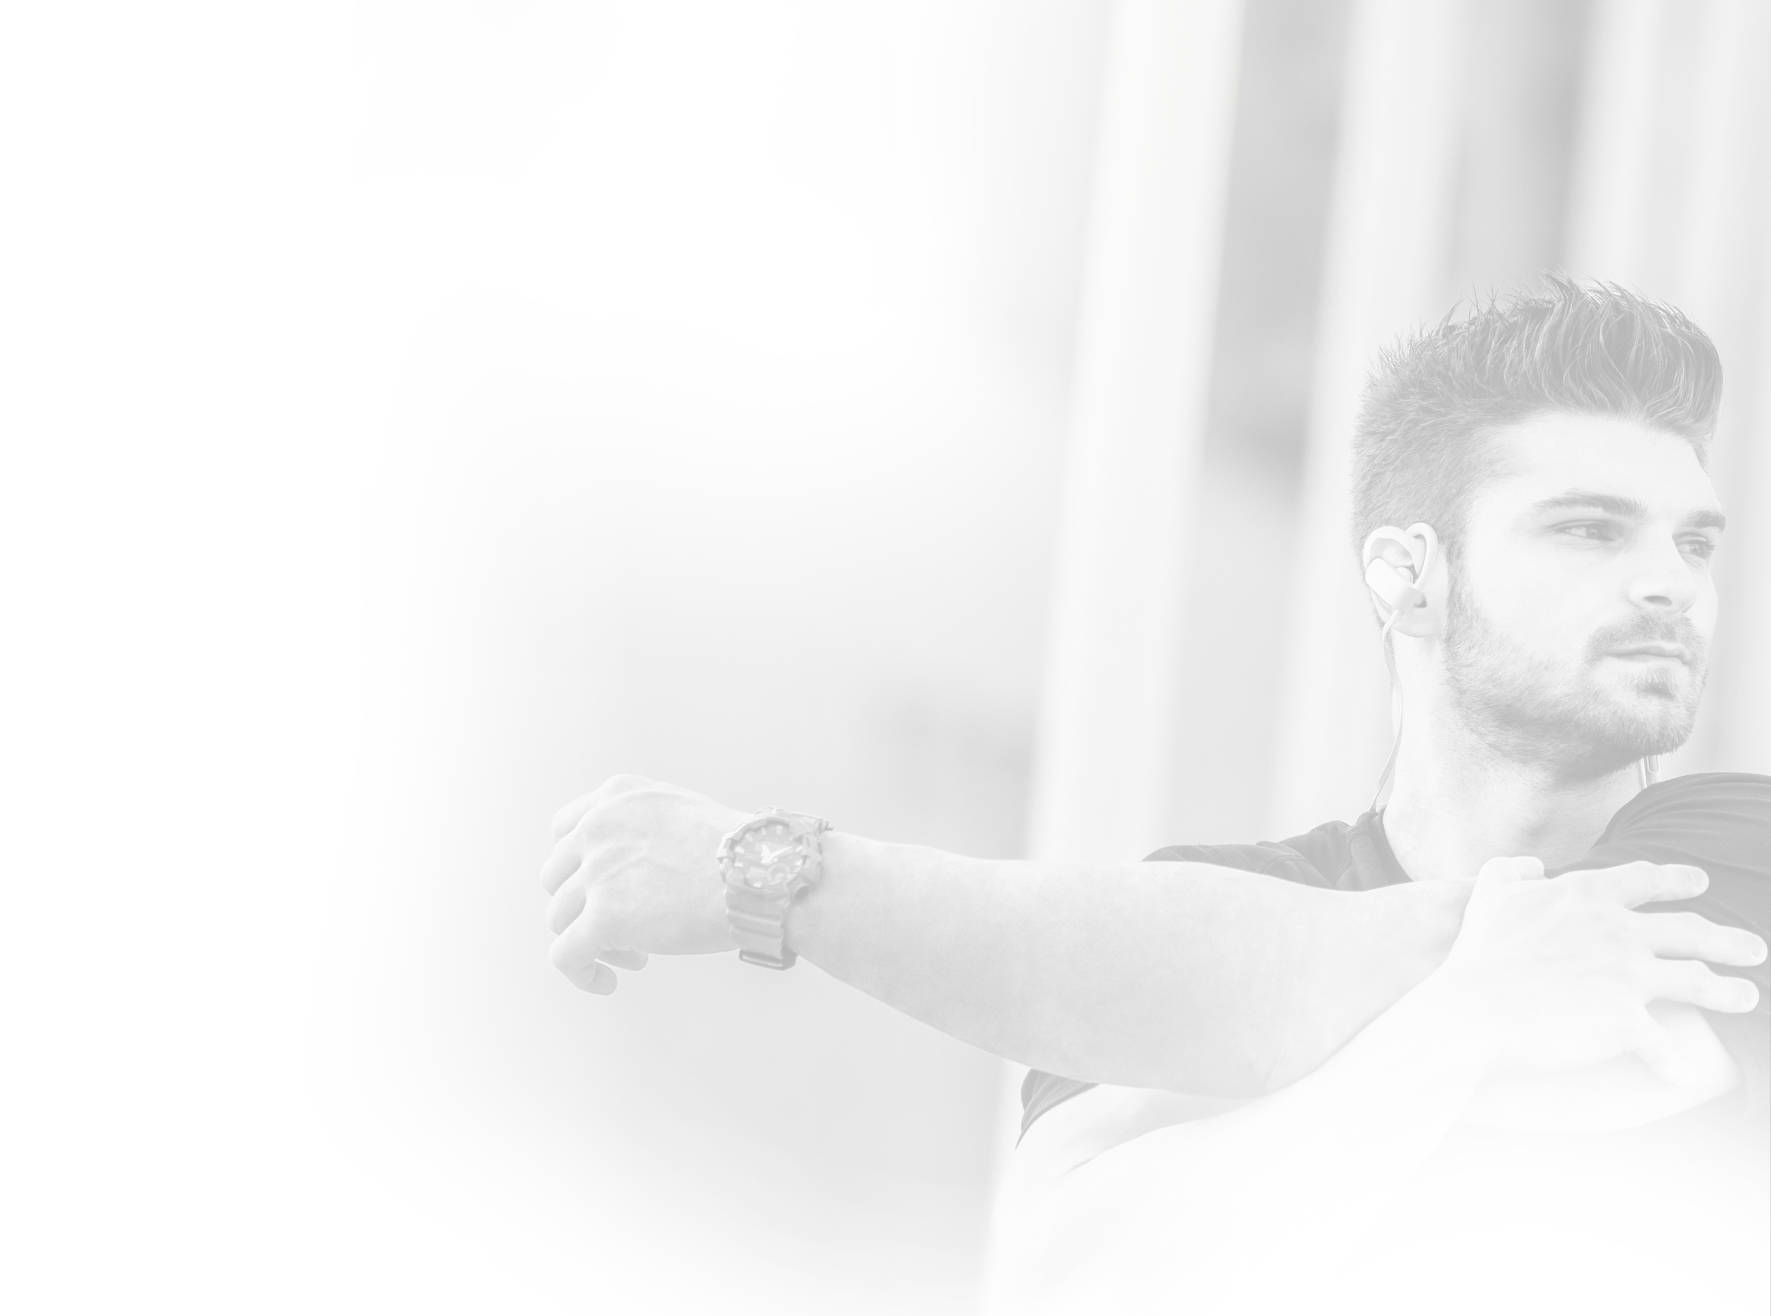
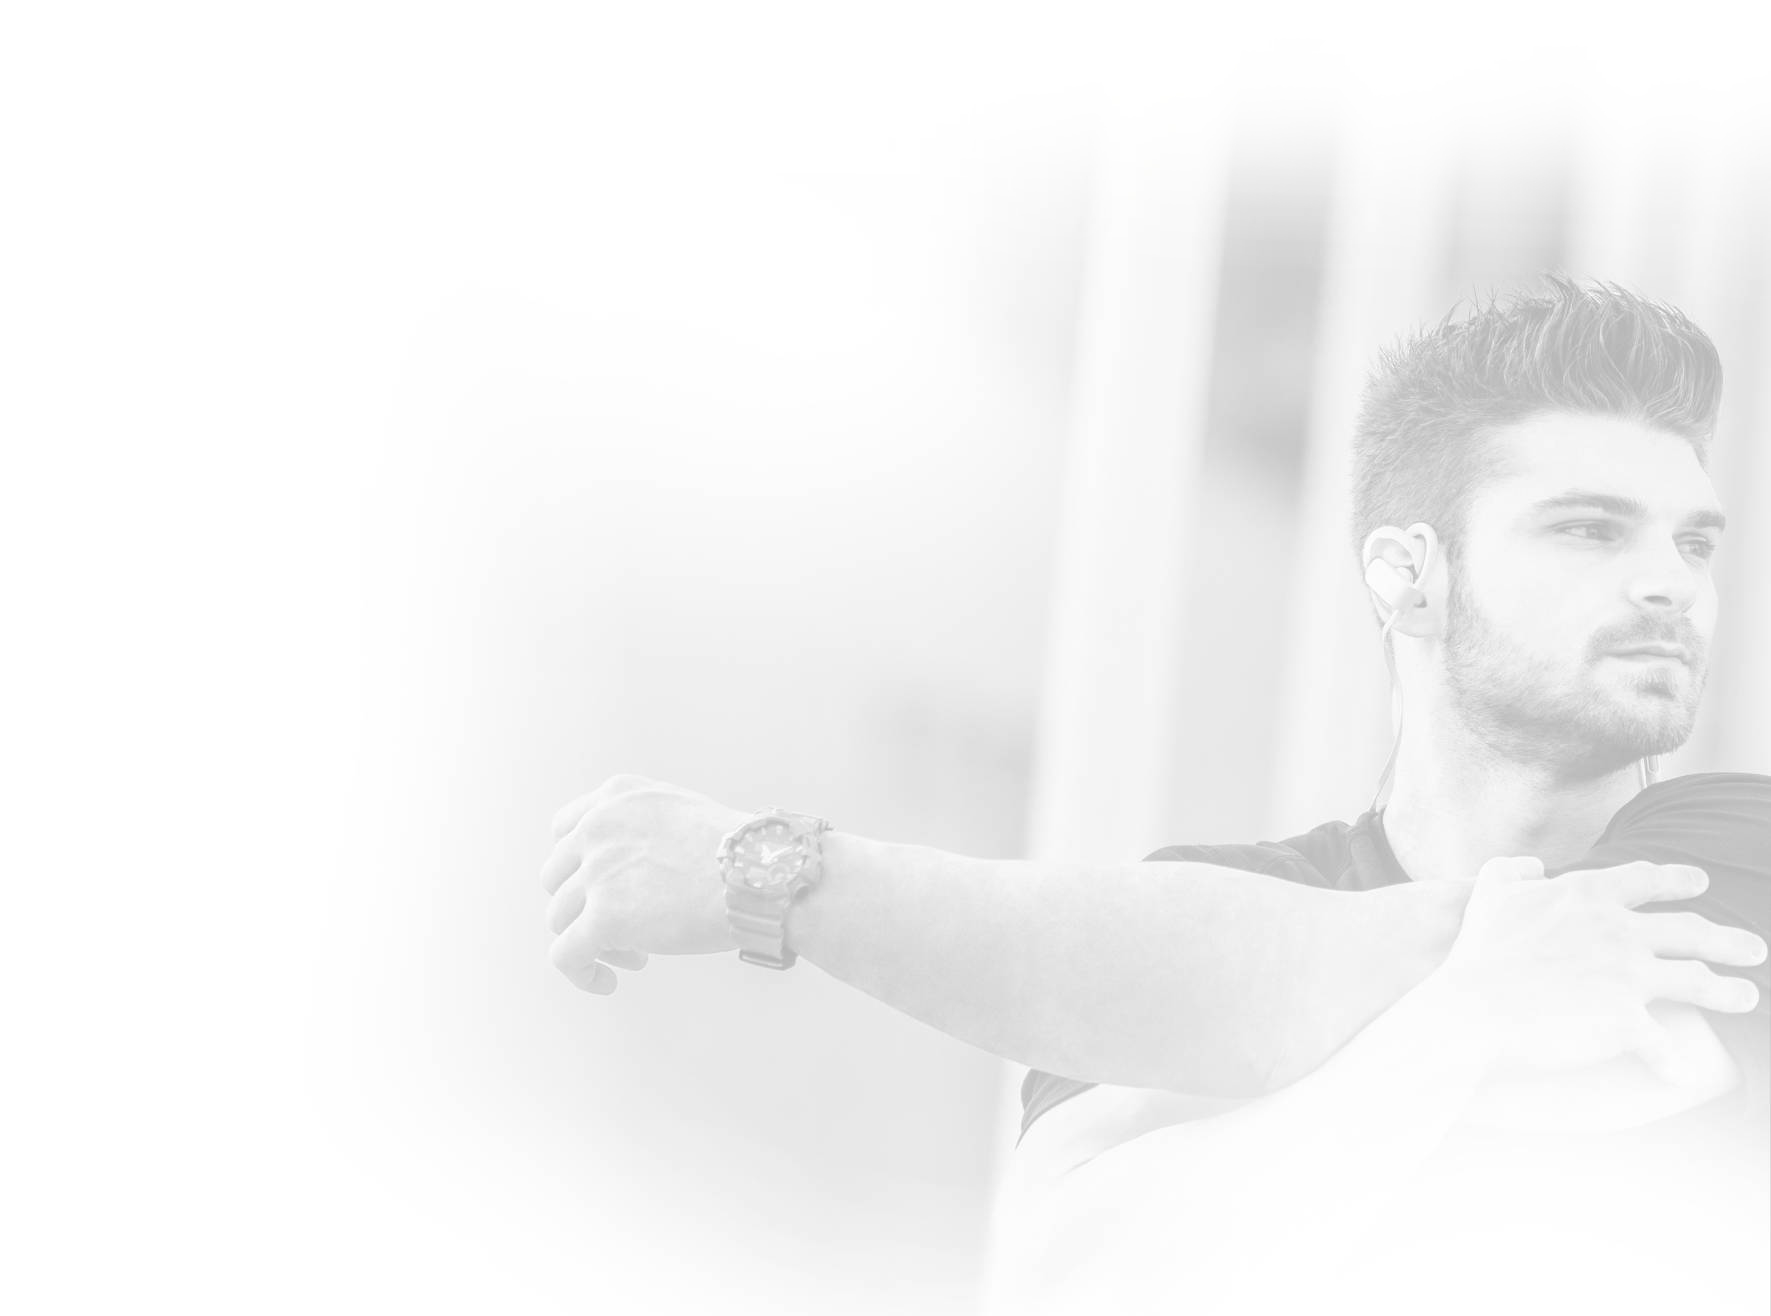
afinacion de fondos en cel

Changed region(s): [[0.8075, 0.0, 0.9317, 0.1558], [0.6832, 0.0, 0.7764, 0.1558]]

diff --git a/css/style.css b/css/style.css
@@ -1960,6 +1960,14 @@ button {
   color: #fff;
 }
 
+@media (max-width: 479px) {
+  #aplicacion {
+    background: url("../img/bp/bigen_polvo_fondo_modelo2.jpg") no-repeat;
+    background-size: 100%;
+    background-position: right 32%;
+  }
+}
+
 #aplicacionSpeedy {
   background: url("../img/bsc/bigen-speedy-color-fondo-modelo2.jpg") no-repeat;
   background-size: 60%;
@@ -2106,6 +2114,14 @@ button {
 
 #aplicacionSpeedy #pasos .paso .conte p {
   color: #fff;
+}
+
+@media (max-width: 479px) {
+  #aplicacionSpeedy {
+    background: url("../img/bsc/bigen-speedy-color-fondo-modelo2.jpg") no-repeat;
+    background-size: 130%;
+    background-position: right 28%;
+  }
 }
 
 #aplicacionBeard {
@@ -2554,6 +2570,12 @@ input[type="submit"] {
   background: url(../img/resuelve/resuelve_fondo_modelo.jpg) no-repeat, url(../img/resuelve/resuelve_fondo_modelo2.jpg) no-repeat;
   background-size: 40%, 40%;
   background-position: right top, left bottom;
+}
+
+@media (max-width: 479px) {
+  #conte {
+    background-size: 40%, 70%;
+  }
 }
 
 #conte #respuestas {

diff --git a/css/style.scss b/css/style.scss
@@ -1341,6 +1341,9 @@ button {
   }
 
   @include fondo("../img/bp/bigen_polvo_fondo_modelo2.jpg", 60%, 80%);
+  @include cel{
+    @include fondo("../img/bp/bigen_polvo_fondo_modelo2.jpg",100%, 32%);
+  }
 }
 
 #aplicacionSpeedy {
@@ -1362,6 +1365,9 @@ button {
   }
 
   @include fondo("../img/bsc/bigen-speedy-color-fondo-modelo2.jpg", 60%, 50%);
+  @include cel{
+    @include fondo("../img/bsc/bigen-speedy-color-fondo-modelo2.jpg", 130%, 28%);
+  }
 }
 
 #aplicacionBeard {
@@ -1583,6 +1589,9 @@ input[type="submit"] {
     url(../img/resuelve/resuelve_fondo_modelo2.jpg) no-repeat;
   background-size: 40%, 40%;
   background-position: right top, left bottom;
+  @include cel{
+    background-size: 40%, 70%;
+  }
   #respuestas {
     @extend .elconte;
     grid-column: 2;
